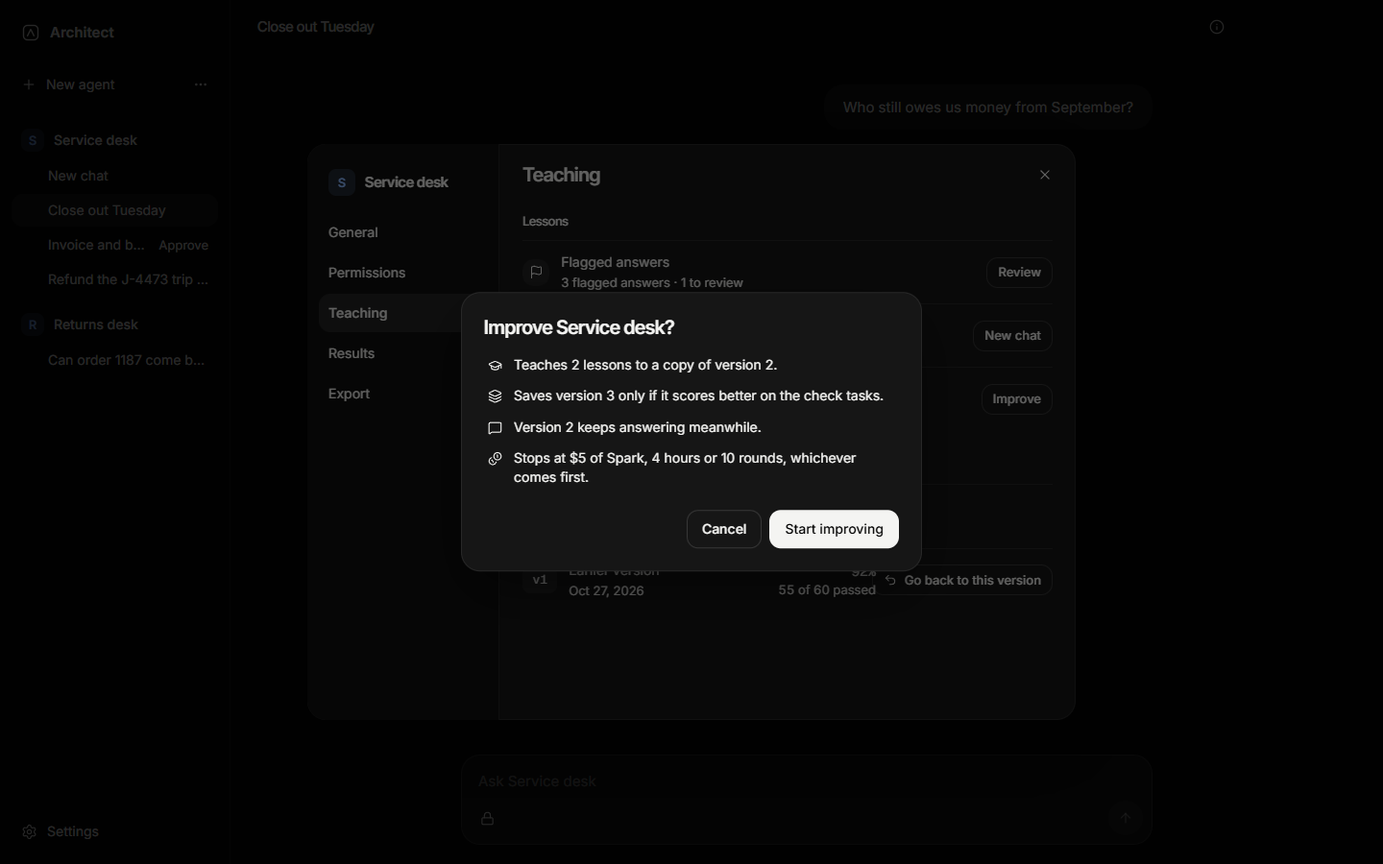
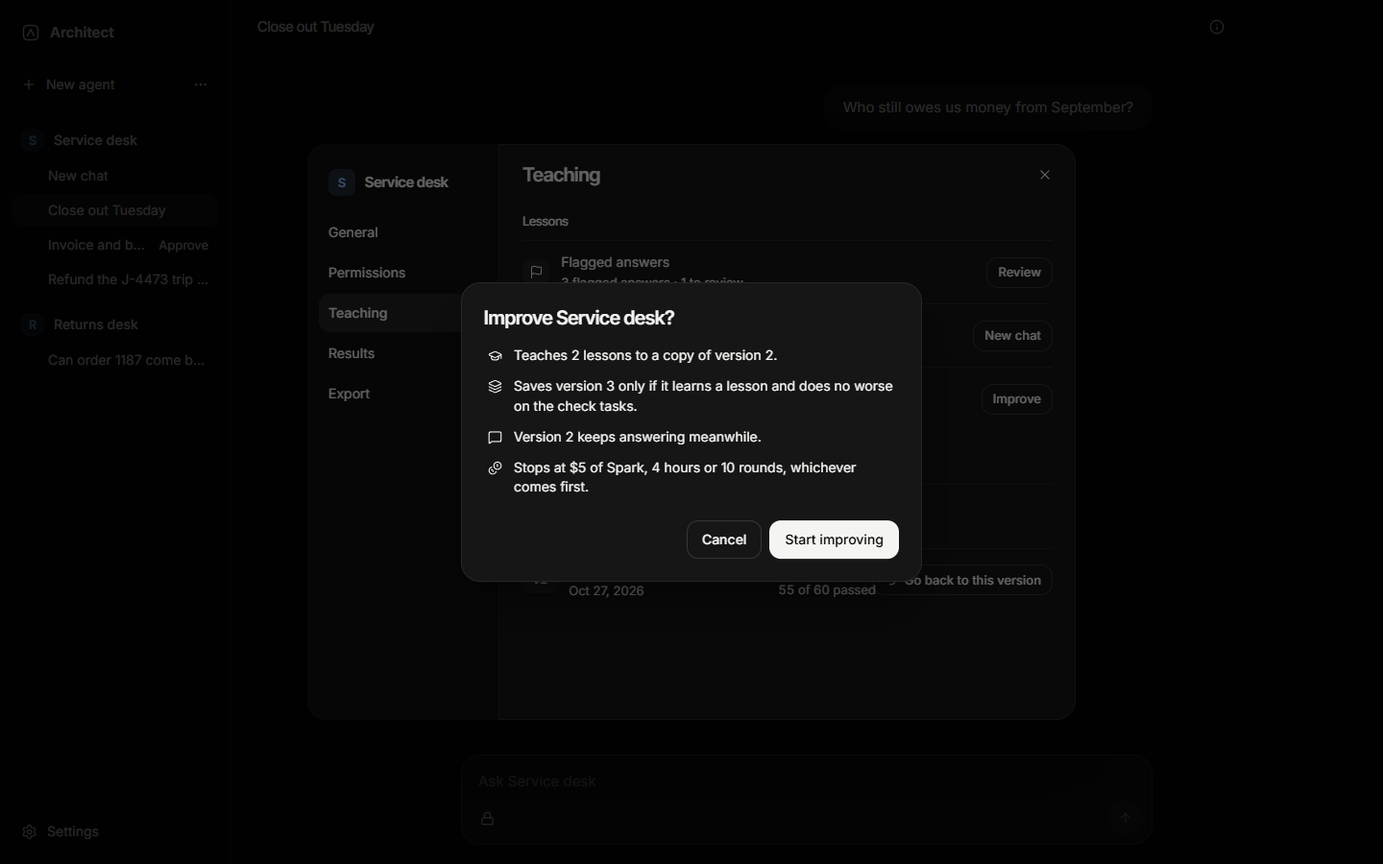
docs: decide that Teach this keeps a change only when the student learned it, and say so in the Improve dialog and the guide
Decision 066, the Teach this and A04 rows of EXPANSION, the guide's lessons and
Improve sections, and the Improve dialog's line about when it saves a version.
Screenshots retaken from the hidden teaching spec.

Changed region(s): [[0.3438, 0.3111, 0.6562, 0.5911], [0.5, 0.5911, 0.6562, 0.6533]]

diff --git a/docs/guide/index.html b/docs/guide/index.html
@@ -1720,7 +1720,7 @@
               src="teach-proposal-dark.png"
               x="0.575 0.995"
               y="0.01 0.99"
-              alt="A proposed lesson of the kind Rule, with the change it makes and the buttons Discard, Save for Improve and Save as version 3."
+              alt="A proposed lesson of the kind Rule, with the change it makes and the buttons Discard and Save for Improve."
             />
           </figpair>
         </div>
@@ -1763,11 +1763,9 @@
             </tbody>
           </table>
           <p>
-            For a rule or a missing fact, <b>Save as version</b> and its number adds the lesson to
-            the agent as a new version at once. That version isn't used until you choose it, and it
-            hasn't taken a final test. <b>Save for Improve</b> keeps the lesson with your other
-            flagged answers. <b>Discard</b> throws it away. <b>Say more and send again</b> lets you
-            add detail.
+            <b>Save for Improve</b> keeps the lesson with your other flagged answers, whatever its
+            kind. A lesson only goes into a new version once Improve shows the agent learned it.
+            <b>Discard</b> throws it away. <b>Say more and send again</b> lets you add detail.
           </p>
         </div>
       </div>
@@ -1785,8 +1783,8 @@
               <p>
                 Press <b>Improve</b>. A box asks <b>Improve</b> and the agent's name, and says what
                 will happen: it teaches your lessons to a copy of the current version, saves a new
-                version only if it scores better on the check tasks, and stops at the caps it shows.
-                The current version keeps answering meanwhile.
+                version only if it learns a lesson and does no worse on the check tasks, and stops
+                at the caps it shows. The current version keeps answering meanwhile.
               </p>
             </li>
             <li>
@@ -1798,8 +1796,11 @@
             <li>
               <p>
                 When it ends, press <b>See what changed</b>. The screen shows the score before and
-                after on the check tasks. A new version is marked <b>Not in use yet</b>, and it
-                hasn't taken a final test.
+                after on the check tasks, and for each lesson <b>Learned</b>, <b>Not learned</b> or
+                <b>Not verified</b>. A lesson counts as learned only when the agent passed the tasks
+                of its kind it had failed, with the change kept. The others go back to your flagged
+                answers, with why. A new version is marked <b>Not in use yet</b>, and it hasn't
+                taken a final test.
               </p>
             </li>
           </ol>

diff --git a/apps/desktop/src/renderer/src/workspace/teach/LessonsSection.tsx b/apps/desktop/src/renderer/src/workspace/teach/LessonsSection.tsx
@@ -334,7 +334,8 @@ function ImproveDialog({
             Teaches {lessonCount(queued)} to a copy of version {from}.
           </Change>
           <Change icon={<Layers size={15} strokeWidth={1.8} aria-hidden />}>
-            Saves version {next ?? from + 1} only if it scores better on the check tasks.
+            Saves version {next ?? from + 1} only if it learns a lesson and does no worse on the
+            check tasks.
           </Change>
           <Change icon={<MessageSquare size={15} strokeWidth={1.8} aria-hidden />}>
             Version {from} keeps answering meanwhile.

diff --git a/docs/EXPANSION.md b/docs/EXPANSION.md
@@ -32,7 +32,7 @@ The owner's Expanded Implementation Spec (`docs/SPEC_EXPANSION.md`, Oct 28) gove
 | P1 | Failure-specific teaching with replay and verified corrections | built and tested on fakes: replay at whole tool batches with fixtures, tool runtime and date checked; answer-blind continuation by the mentor as the agent; one earlier checkpoint, then a labeled full-task demonstration; checker plus mutation audit; verified lessons whose training targets are only the mentor's turns; related practice; caps and plateau stops; restart-safe | Decision 042; `packages/engine/test/teaching-correction.test.ts` (replay, refusal to repair, continuation, full task, audit, gate), `mentoring-loop.test.ts` (finding, repair, practice, set-aside findings, refusals, restart in teaching), `mentoring-store.test.ts` (records, plateau stops), `teaching-caps.test.ts` |
 | P1 | Bounded selection between retrieval, procedure, helper and weight interventions | built and tested on fakes: one intervention per round from a menu the runner validates (findings checked, estimates against what is left, lookup tables refused), clarification for interactive runs, harness and adapter candidates measured apart, four configurations for weights, an experiment record for every round | Decision 042; `mentoring-loop.test.ts`, `weights-loop.test.ts`, `mentoring-api.test.ts` |
 | P1 | Evidence-based apprenticeship UI | done on data recorded with the engine's fakes; three blind reads of the screenshots, each one's misreadings fixed with labels or data | Decision 049. Train: examples (lessons) listed with the checker's verdict, how each was obtained and a count of the verified; rounds by intervention type and how each experiment ended, with why in a few words when not kept, and why training ended; the current round's outcome; the chart's score where it was last measured. A round's drawer: the reason, Spark's findings opening their attempt at the step they name, the examples and what the plan set aside (caps and plateaus), the check tasks per type before and after with regressions and answer times, the gates, the cost (Spark, compute, time, attempts) and the files changed. An example plays its correction from the checkpoint where Spark took over (the replayed steps named as the student's), or as a labelled full-task demonstration, with the answer before and after; attempts play back step by step from the keyboard and the mouse, in the workspace's words with the raw call folded. Report: the capability breakdown keeps practice, check tasks, the final test and install checks apart (each its own mark and bar), with Spark's tick only where a reference measured it; the comparisons say Not run, and what the records lack, where no record exists, read the comparisons runner's report when the app runs on its data folder, and show peak memory only where a meter read a final test. Hidden e2e `apps/desktop/e2e/evidence.spec.ts`: every round shown as its experiment ended, rejected, stopped and invalid included, with its reason; a lesson opens its attempt at the step its finding points to, and the keyboard moves through the steps; Train and the Report reconcile with the stored experiments, lessons and report card; the split marks; the meter's figures only where it read the test; a comparison's own report with each arm and the one not run, with its reason. Unit tests `apps/desktop/test/unit/flow/{evidence,decision,curve,run-state}.test.ts`, `packages/ui/test/components.test.ts`; engine `mentoring-api.test.ts` (correction traces, one attempt by id, lessons with their requests, meter readings, a report beside the data folder), `comparisons-dry-run.test.ts` (the app reads the dry run's report from beside its data); `examples/gear-returns/test/recorded-run.test.ts`. Screenshots `evidence-*` (filled, every way a round ends, playback, the report and a comparison's report, and each failing), `train-sample`, `report-sample` (a run with no records), both themes |
-| P1 | Teach this and versioned improvement | done; an improvement of an agent already at its target on dev ends before its first round (the planner's rule, decision 048) | Immutable versions with candidates, acceptance, promotion and rollback, chats and replies that record their version, versioned job contracts (decision 039; `packages/engine/test/graduate-versions.test.ts`, `graduate-contracts.test.ts`). Replies keep their work; a correction is classified by the mentor under the sharing setting and consent, queued or discarded, applied as an instruction-only candidate, or taken by Improve agent into a candidate measured on dev (decision 042; `teach-this.test.ts`, `agent-host.test.ts`). On screen (decision 047): the Teaching tab lists each version's standing, score from its own report, parent and date, and promotes or rolls back after a dialog that says what changes; a reply's steps name the version that answered. Hidden e2e `apps/desktop/e2e/versions.spec.ts` ("promotes a candidate and rolls back"); screenshots `agent-teaching`, `agent-promote`, `agent-promote-unevaluated`, `agent-rollback`, `agent-teaching-error`, `workspace-unsaved`. Teach this, the queue and Improve agent on screen (decision 048): a flag on every settled reply opens a sheet that says what leaves and its cap before anything is sent, then shows the proposed lesson's kind, change and need for training, to queue for Improve agent, save as a new version with no final test yet, or discard; Teaching shows flagged answers, teaching something new and Improve agent with its budget; the improvement runs on the Train screen under its lessons, stops at any point, and ends in a report that says what improved, what didn't, that it took no final test, and whether it may be promoted. Engine: `teach.overview`, `teach.shareCorrections`, a run's `improves`, and Stop while an improvement writes its candidate (`teach-this.test.ts` "stops an improvement that keeps failing while it writes its candidate", "stops an improvement during its rounds", the overview and sharing tests; `host.test.ts` over the port). Hidden e2e `apps/desktop/e2e/teaching.spec.ts`; unit `apps/desktop/test/unit/workspace/teaching.test.ts`; screenshots `teach-*`, `agent-teaching-lessons*`, `agent-teaching-empty`, `agent-teaching-imported`, `agent-teaching-improving`, `agent-teaching-made`, `improve-*`, `improvement` |
+| P1 | Teach this and versioned improvement | done; since decision 066 a version from Improve agent carries the student's own evidence that it learned a lesson and held its check tasks | Immutable versions with candidates, acceptance, promotion and rollback, chats and replies that record their version, versioned job contracts (decision 039; `packages/engine/test/graduate-versions.test.ts`, `graduate-contracts.test.ts`). Replies keep their work; a correction is classified by the mentor under the sharing setting and consent, queued or discarded, and taken by Improve agent into a candidate measured on dev (decision 042; `teach-this.test.ts`, `agent-host.test.ts`). Decision 066: there is no instruction-only candidate any more (Save as version and the engine's `apply` are gone), an improvement of an agent already at its target gets one round (`plan.test.ts`), and an improvement keeps a change only when the student, with the change, passes every train task of its lessons' types it had failed in the round and `isHarmful` finds no harm on dev, with no gain asked for (`keep.test.ts` `decideLearned`); only lessons checked in a kept round are marked used, the rest go back to the queue with why, and a lesson nothing could check is never learned (`teach-this.test.ts` "keeps no change the student didn't learn from, even one that gains on dev", "counts a lesson as learned only when its own tasks showed it, and never one nothing could check", "gives an agent already at its target on dev a round to learn its lessons in"); the report gives each lesson Learned, Not learned or Not verified (screenshot `improve-report-lessons`). On screen (decision 047): the Teaching tab lists each version's standing, score from its own report, parent and date, and promotes or rolls back after a dialog that says what changes; a reply's steps name the version that answered. Hidden e2e `apps/desktop/e2e/versions.spec.ts` ("promotes a candidate and rolls back"); screenshots `agent-teaching`, `agent-promote`, `agent-promote-unevaluated`, `agent-rollback`, `agent-teaching-error`, `workspace-unsaved`. Teach this, the queue and Improve agent on screen (decision 048): a flag on every settled reply opens a sheet that says what leaves and its cap before anything is sent, then shows the proposed lesson's kind, change and need for training, to queue for Improve agent or discard; Teaching shows flagged answers, teaching something new and Improve agent with its budget; the improvement runs on the Train screen under its lessons, stops at any point, and ends in a report that says what improved, what didn't, that it took no final test, and whether it may be promoted. Engine: `teach.overview`, `teach.shareCorrections`, a run's `improves`, and Stop while an improvement writes its candidate (`teach-this.test.ts` "stops an improvement that keeps failing while it writes its candidate", "stops an improvement during its rounds", the overview and sharing tests; `host.test.ts` over the port). Hidden e2e `apps/desktop/e2e/teaching.spec.ts`; unit `apps/desktop/test/unit/workspace/teaching.test.ts`; screenshots `teach-*`, `agent-teaching-lessons*`, `agent-teaching-empty`, `agent-teaching-imported`, `agent-teaching-improving`, `agent-teaching-made`, `improve-*`, `improvement` |
 | P2 | Portable package and import on a supported PC | done | Manifest v2, `.architect.zip`, inclusion review and scan, import checked before code loads, rebinding, compatibility and smoke checks (decision 038); packages with an adapter import and run where llama-server and the exact base are (decision 041). `packages/engine/test/graduate-packages.test.ts`, `graduate-adapters.test.ts`, `packages/harness/test/package.test.ts`, hidden e2e `apps/desktop/e2e/engine.spec.ts` (export, remove, import with other folders, chat) and `agent-host.spec.ts` (an imported package runs a mentor-written tool on a local model; one with an adapter answers through llama.cpp). On screen (decision 047): the Export tab's review, scan and parts, and Import agent's Package, Folders, Permissions and Install steps; the engine's preview of an import and part exports (`graduate-import-preview.test.ts`, `graduate-export-parts.test.ts`); hidden e2e `versions.spec.ts` (an export with its inclusion review; imports through bindings to a ready install, a blocked one, one that needs a folder, fixed from the result, and one with trained weights where llama.cpp is missing, with its llama.cpp row and Set up llama.cpp); screenshots `agent-export*`, `import-*`. A ready-made agent ships inside the app and opens through this same import, with `data/` already chosen as a copy of its data in the app's data folder (decision 054): `packages/engine/test/sample-agent.test.ts`, hidden e2e `sample-agent.spec.ts` (from the new-agent screen to a ready install) and `engine.spec.ts` (the real engine, built and packaged), screenshots `sample-agent-*` |
 | P2 | CLI using the same runtime | done; the macOS launcher is untested | Decision 043, `docs/CLI.md`. `apps/cli`: list, install (a package or `hf://` at a commit), run (a conversation, or JSON in and out), inspect, verify, export, publish, through the workspace's agent host on the app's data folder. `apps/cli/test/{shared-runtime,run,commands,hub,adapters}.test.ts`; a version with an adapter runs on the command's own llama-server, which stops when the command ends. On Windows the unpacked installer build carries `architect.cmd` beside `Architect.exe`, and it ran a task end to end (the `run` tool included) on the app's own binary as Node |
 | P2 | Hugging Face publish and install | built, and on screen; tested against a fake Hub, live Hub validation incomplete (no token on this PC) | Decision 044. One Hub client (moved from training) with LFS uploads, basic and multipart, the token kept off upload and download hosts (`packages/engine/test/hub-client.test.ts`); the token resolver (`hub-token.test.ts`); publishing and installing by commit (`graduate-hub.test.ts`); engine API and IPC (`graduates.reviewPublication`, `publish`, `publications`, `installFromHub`). On screen (decision 050): publishing in the Export tab (repository, Private by default, the token's source, every file, the model card, the scan, the upload's stage and bytes from `graduates.onPublishProgress`, then the link, commit and install command, or the failure with Finish publishing on the same record, kept while the agent's settings close; the agent's publications), the Hugging Face token in Settings beside the other keys (where it comes from, never its value), and Install from Hugging Face in Import by `owner/name` and commit through a package file's steps. Progress: `graduate-hub.test.ts` (each stage, the upload's bytes, a package the Hub already holds counted as sent) and `host.test.ts` (over the port, checked with its schema); `apps/desktop/test/unit/main/hub.test.ts` (the token's source, the saved key kept for huggingface.co), `graduate-handlers.test.ts` (a Hub failure's hint reaches the screen); hidden e2e on the real engine against the fake Hub, `apps/desktop/e2e/hub.spec.ts` (publish privately to the link and commit with every stage in the renderer; a failed upload shown as a failure, then finished by Finish publishing; install that commit from a clean state through Folders and Permissions, the commit recorded with the version); captures in both themes from `hub-screens.spec.ts` (`agent-publish*`, `settings-hub*`, `import-hub*`) |
@@ -49,7 +49,7 @@ The owner's Expanded Implementation Spec (`docs/SPEC_EXPANSION.md`, Oct 28) gove
 | A01 | Real LoRA trained, loaded and used on the local configuration | not done, by the owner's decision on Oct 28: development runs on hosted inference only, with no training jobs and no local GPU runs, so no real adapter has been trained (the Hugging Face account on this PC also can't pay for Jobs); every step up to a job is built and tested against fakes, and the stand-in backend is kept out of this gate (`countsAsRealTraining`); loading and using an adapter in the app is built and tested with the stand-in llama-server and a stand-in adapter, never a real one | decisions 035, 041; `packages/engine/test/hf-jobs.test.ts`, `training-worker.test.ts`, `local-runtime.test.ts`, `graduate-adapters.test.ts` |
 | A02 | A failure yields a replayable or full-task correction that passes the checker | done with scripted models: on the returns desk with the real tools, sandbox, checker, vault and loop, and on fakes | `examples/gear-returns/test/mentoring-chain.test.ts`: a train refund fails on the real checker, the finding names its turn, the correction replays the three calls before it and passes, a refund of another family is practiced and verified, the procedure using the lesson is kept on a paired dev measurement (6/9 to 9/9, then 12/18 to 18/18 on new seeds); `teaching-correction.test.ts`: a correction continues from the replayed checkpoint through the real tools and checker, a full-task demonstration is labeled as one, a replay that no longer holds is refused rather than repaired; `mentoring-loop.test.ts`: the chain from a recorded failure to a step-referenced finding, a verified lesson, a procedure using it, paired dev evaluation, a kept experiment and a verified related practice case |
 | A03 | Harness and weight changes evaluated apart; a harmful one rejected, the prior version still usable | done on fakes and the stand-in backend; a real adapter waits for A01 | `weights-loop.test.ts`: H0/A0, H1/A0, H0/A1 and H1/A1 on the same seeds, a harmful adapter rejected while the prior version keeps running, a stand-in adapter never kept, a failed job recorded as invalid, a restart in training without a second job; `frozen-config.test.ts`; `weights-gaps.test.ts` (decision 045): all four configurations on the same seeds after a confirmation, A0 the bare base once an adapter is kept and the incumbent measured apart, no second job when the backend changed before the round recorded its job, a stopped round's compute at its job's authorization until the job ends, an adapter file held to its job's record |
-| A04 | A user correction enters the queue, respects data sharing, makes a candidate without touching the active model | done, in the engine and on screen | `teach-this.test.ts`: nothing is sent without the sharing setting and consent, an exchange carrying a test task is refused, only teachable lessons queue, an instruction lesson and an improvement each make a candidate while version 1 stays active, the lessons go back to the queue when nothing was kept, a busy student makes it wait and say so, a restart finishes with one candidate, a stop ends an improvement whose candidate can't be written and returns its lessons. Hidden e2e `apps/desktop/e2e/teaching.spec.ts` against a stand-in engine: no call leaves before the person sends, then the job's leave and the exchange go together; a lesson is queued, saved as version 3 (a candidate with no final test yet, version 2 still active) and discarded; an agent from another computer says why it can't be taught here; Improve agent starts within its budget, the workspace keeps answering on version 2 meanwhile, Stop ends it with its lessons back in the queue, and a second try makes version 3, promoted only from its report |
+| A04 | A user correction enters the queue, respects data sharing, makes a candidate without touching the active model | done, in the engine and on screen | `teach-this.test.ts`: nothing is sent without the sharing setting and consent, an exchange carrying a test task is refused, only teachable lessons queue, an improvement makes a candidate while version 1 stays active and keeps a change only when the student passed the tasks of its lessons' types it had failed and held dev (decision 066), only the lessons it learned are used and the rest go back to the queue with why, the lessons go back when nothing was kept, a busy student makes it wait and say so, a restart finishes with one candidate, a stop ends an improvement whose candidate can't be written and returns its lessons. Hidden e2e `apps/desktop/e2e/teaching.spec.ts` against a stand-in engine: no call leaves before the person sends, then the job's leave and the exchange go together; a rule and a weakness are each saved for Improve, with no Save as button and no new version, and one is discarded; an agent from another computer says why it can't be taught here; Improve agent starts within its budget, the workspace keeps answering on version 2 meanwhile, Stop ends it with its lessons back in the queue, and a second try makes version 3, whose report says which lesson was learned and which wasn't, promoted only from its report |
 | A05 | UI progress and capability results reconcile with stored experiments, rejected and stopped included | done, on screen | `mentoring-api.test.ts`: progress and the capability breakdown agree with the experiments, kept, reverted, rejected, invalid and stopped included; a clarification waits across a restart. `examples/gear-returns/test/recorded-run.test.ts`: the same on a whole recorded run. Hidden e2e `apps/desktop/e2e/evidence.spec.ts`: the Train screen's rounds, changes kept and verified examples, and the Report's check-task and final-test numbers per type, match what the app's own engine returns for the recorded run's experiments, lessons and report card (decision 049) |
 | A06 | Reopens after restart, runs offline, rollback keeps adapter and harness aligned | done, with the adapter served through llama.cpp (decision 041) | `graduate-adapters.test.ts`: a version with an adapter answers through the stand-in llama-server with its adapter at its scale on every request, never through Ollama; a rollback restarts the server with the earlier version's adapter, harness and scale, and the same holds after a restart; a base of another build or an adapter that changed is refused with the fix. `graduate-versions.test.ts`: a rollback restores version 1's harness and adapter together, with the adapter runtime's request and the training job of that version, and survives a restart; a changed adapter file is refused. `graduate-legacy.test.ts`: a graduate from harness format 1 converts, opens, is accepted and rolls back (decision 040). `agent-host-offline.test.ts`: in the guarded agent host process, a version with an adapter answers through llama-server on 127.0.0.1, every connection is loopback, and llama-server stops with the host; e2e `engine.spec.ts` reopens graduates after the workspace process is killed. Rolling back from the Teaching tab, after a dialog naming the setup and trained weights that return: e2e `versions.spec.ts`; the version it rolls back to gets its install checks (`graduate-install-checks.test.ts`) |
 | A07 | Export and import keep model and harness identity; a clean install binds other paths and runs | done, adapters included (decision 041) | `graduate-packages.test.ts`: a second computer imports with its own folder and model, every check passes, the digest, harness and model match the author's, and a task reads the new folder's data; an import that names nothing grants nothing, even on the computer that made it; a package joins an agent only through a parent this computer has; an adapter exports byte for byte. `graduate-adapters.test.ts`: a package with an adapter installs on another computer and is ready where llama-server and the exact base are (its check's request goes through llama.cpp with the adapter, and the workspace answers); it needs attention without llama-server, without the base (with the download and its exact weights) or with a build older than 10358, and is blocked on a base of another build; e2e `engine.spec.ts`, `agent-host.spec.ts`. On screen: Import binds each folder to one the user picks and grants nothing until chosen, then installs (e2e `versions.spec.ts`, against a stand-in engine; the real engine's import is `engine.spec.ts`); the same steps for a version installed from Hugging Face, and the agent's model changed in General to another model on this computer, with its checks run again (decision 050; e2e `hub.spec.ts` on the real engine) |

diff --git a/docs/DECISIONS.md b/docs/DECISIONS.md
@@ -795,3 +795,17 @@ Phase A of `docs/DESIGN.md`: the foundation every screen picks up, and nothing o
 - *Motion has one door.* The `motion` library and NumberFlow are used only inside `@architect/ui`, which exports `springs`, `MotionProvider`, `Reveal`, `Stagger`, `StepTransition`, `Collapse` and `NumberTicker`, and its components move with them. The floating layers stay mounted while they leave, so each overlay root tracks whether it is open itself.
 - *Hidden means instant.* The main process puts `--architect-hidden` in a hidden run's renderer arguments, the preload turns it into `window.architectRuntime.hidden`, and `MotionProvider` then completes every transition at once (`skipAnimations`), as it does for a system that asks for reduced motion. In that mode a thing is at its end state in its first frame (`useEnterFrom`) and `StepTransition` is a plain element, so a capture never finds anything halfway and a route changes as it always did. A hidden window draws almost no frames, so real motion cannot be watched there: it was tried once with a throwaway probe that waited for each overlay to come in, leave and unmount.
 - *Tests.* `design-rules.test.ts` fails on an old token name, a grey, a gradient, a dot grid, a color outside the tokens or text under 13px. The UI tests hold the tokens against the design's table and the contrast of each pair, and the springs, the hidden-mode switch, the stagger and the number formats. `shell.spec.ts` holds the preload's flag, the forced dark theme and an old `theme` in a settings file.
+
+## 066. Teach this keeps a change only when the student learned it and held its check tasks
+
+**Context.** Teach this (042, 048) could end without any sign that the agent learned what the person taught it. Four things stood in the way. The planner ended a run before its first round once dev met the job's target, so Improve agent on an agent already at its target made no rounds and no version (048, Consequences). An improvement round was kept by the ordinary rule, a net dev gain of `minDevGain`, which an agent near its ceiling can't give, so a useful correction there could never be kept. When any change was kept, every lesson the improvement held was marked used, even one nothing showed the agent learned. And "Save as version N" made a candidate with the lesson's instruction added that nothing measured before Promote. The mentor's verified continuation (`teaching/correction.ts`) shows the mentor can do the task, not that the student learned it.
+
+**Decision.**
+- *An improvement gets its round.* A run that improves an agent does not end on `target_met` before it has run one round; ordinary training keeps its rule (`plan.ts`).
+- *An improvement's keep rule* (`decideLearned` in `keep.ts`; ordinary training keeps `decideKeep`). After the round's change is measured once on dev, the student attempts again, with the change, the round's train tasks of its lessons' task types that it failed at the start of the round: the same batch the mentor diagnosed and drew its worked examples from, so nothing new is generated. The change is kept when the student passes every one of them and `isHarmful` finds no harm on dev (the total doesn't fall and no type loses more than the job's per-type limit), and the hard gates pass. No gain is asked for, so there is no lucky draw to measure again. The reason line says both halves, for example "Learned: passed 2 of 2 tasks it had failed; check tasks held 3/9 → 6/9"; one that failed says "Not learned: …", and a round with no such task says "Not verified: …". The attempts are ordinary train attempts under the candidate's version or adapter, and the experiment records them as `learned`. A weights round in an improvement uses the same rule.
+- *Attribution.* A lesson is learned when a round whose change was kept checked tasks of its type; it is marked used in the candidate. A lesson checked only in rounds that weren't kept is not learned; one whose type no round could check, or that names no type, is not verified and never counts as learned. Both go back to the queue with a short note of why, which the flagged answer shows under "Last try" (`lessonOutcomes` in `improvement.ts`; `Correction.note`).
+- *One path for teaching.* "Save as version N" is gone, with the engine's `apply`, its route, client call, IPC channel and tests: a rule or a missing fact is saved for Improve like any lesson, and only an improvement that showed the agent learned it makes a version. Removing it was simpler than making Promote refuse an unmeasured candidate: that would have left a button that makes versions nobody may use, and a second kind of candidate to explain. The status `applied` stays in the schema only so lessons applied before this still read.
+- *The report* (`/runs/:id/improvement`) says whether the change was kept in its first line, keeps the check-task score before and after for each task type, and gives each lesson Learned, Not learned or Not verified with the line that says why. The Improve dialog now says it saves a version "only if it learns a lesson and does no worse on the check tasks".
+- *Tests.* Engine `plan.test.ts` (an improvement at its target gets one round), `keep.test.ts` (`decideLearned`: kept at the ceiling with no gain, not kept when a task still fails whatever dev gained, not verified with nothing to check, refused when `isHarmful` says so), `teach-this.test.ts` (a kept improvement records the student's checks and marks its lesson learned; a change that gains on dev but teaches nothing is reverted and its lesson goes back with its note; a lesson with no task type is never learned while another in the same run is; an agent already at its target gets a round and a version). Desktop unit `teaching.test.ts`; hidden e2e `teaching.spec.ts` against the stand-in engine (a rule is saved for Improve, no Save as button anywhere, saving makes no version, the report's lessons say Learned and Not learned); screenshots `teach-*`, `improve-dialog`, `improve-report`, `improve-report-lessons`.
+
+**Consequences.** A version made by Improve agent now carries evidence that the student, not the mentor, does what it was taught, and that its check tasks held. A lesson only counts when the train set has tasks of its type that the student failed in some round; a correction about something the train tasks never test, such as a preference about wording, can't be verified and stays in the queue, which says so. Checking every failed task of the type is strict: a student that learns most of a lesson but still misses one task doesn't keep the change. The extra attempts cost student calls, not mentor dollars. An improvement no longer measures a kept change a second time on new seeds.
